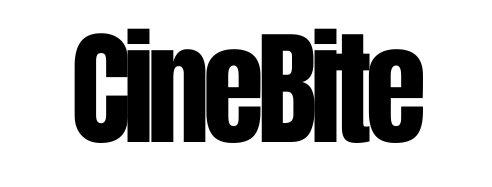
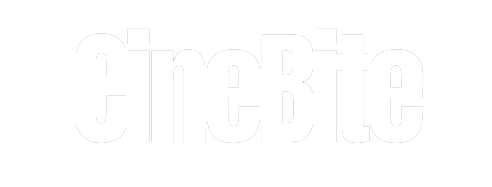
Feat: 프론트 화면 변경

diff --git a/src/components/Main/Search/SearchService.js b/src/components/Main/Search/SearchService.js
@@ -17,12 +17,14 @@ export const saveSearchList = async (userId, keyword) => {
       request
     );
     console.log("클라이언트 검색 기록 저장 성공:", response);
+    return response.data; // 확인: 서버가 올바른 데이터를 반환하는지 확인하세요.
   } catch (error) {
     console.error("클라이언트 검색 기록 저장 실패:", error);
+    return null; // 명확한 값을 반환하여 함수가 실패했음을 나타냅니다.
   }
 };
 
-//검색어 삭제
+// 검색어 삭제
 export const deleteSearchList = async (userId, searchListNo) => {
   try {
     const response = await axios.delete(
@@ -34,20 +36,20 @@ export const deleteSearchList = async (userId, searchListNo) => {
   }
 };
 
-//검색어 전체삭제
+// 검색어 전체 삭제
 export const deleteAll = async (userId) => {
   userId = userId || "guest";
   try {
     const response = await axios.delete(
       `${API_URL}/api/search/delete/${userId}`
     );
-    console.log("클라이언트 검색어 전체삭제 성공:", response.data);
+    console.log("클라이언트 검색어 전체 삭제 성공:", response.data);
   } catch (error) {
-    console.log("클라이언트 검색어 전체삭제 실패:", error);
+    console.log("클라이언트 검색어 전체 삭제 실패:", error);
   }
 };
 
-// 영화 데이터 가져오기
+// 영화 데이터 조회
 export const getSearchData = async (keyword) => {
   try {
     console.log("키워드:", keyword);
@@ -61,35 +63,59 @@ export const getSearchData = async (keyword) => {
 };
 
 // 최근 검색어 목록 가져오기
-export const fetchSearchList = async (userId, setSearchKeyword) => {
-  const response = await axios.get(`${API_URL}/api/search/user/${userId}`);
-
-  if (response && response.data && Array.isArray(response.data)) {
-    const searchData = response.data;
-    //검색어 목록 - 날짜별 내림차순
-    searchData.sort(
-      (a, b) => new Date(b.searchListTime) - new Date(a.searchListTime)
-    );
-    setSearchKeyword(searchData); // 검색어 업데이트
-    return searchData;
-  } else {
-    setSearchKeyword([]); // 값 비우기
+export const fetchSearchList = async (userId) => {
+  try {
+    const response = await axios.get(`${API_URL}/api/search/user/${userId}`);
+    console.log("fetchSearchList response:", response.data);
+    if (response && response.data && Array.isArray(response.data)) {
+      const searchData = response.data;
+      // 검색어 목록 - 날짜별 내림차순
+      searchData.sort(
+        (a, b) => new Date(b.searchListTime) - new Date(a.searchListTime)
+      );
+      return searchData;
+    } else {
+      return [];
+    }
+  } catch (error) {
+    console.error("최근 검색어 목록 가져오기 실패:", error);
     return [];
   }
 };
 
-//연관검색어 저장
-// export const saveRelatedData = async (primaryKeyword, secondaryKeyword) => {
+// 연관 검색어 저장
+export const saveRelatedData = async (
+  previousSearchListNo,
+  userId,
+  keyword
+) => {
+  try {
+    const response = await axios.post(`${API_URL}/related/save`, {
+      searchListNo: previousSearchListNo,
+      userId: userId,
+      keywords: [keyword],
+    });
+    console.log("요청한 연관 검색어 저장 데이터:", {
+      searchListNo: previousSearchListNo,
+      userId: userId,
+      keywords: [keyword],
+    });
+    console.log("클라이언트 연관 검색어 저장 성공:", response);
+    return response.data;
+  } catch (error) {
+    console.error("클라이언트 연관 검색어 저장 실패:", error);
+    throw error;
+  }
+};
+
+// 연관 검색어 조회
+// export const findRelatedByKeyword = async (keyword) => {
 //   try {
-//     console.log("primaryKeyword:", primaryKeyword);
-//     console.log("secondaryKeyword :", secondaryKeyword);
-//     const response = await axios.post(`${API_URL}/related/search/save`, {
-//       keywords: [primaryKeyword, secondaryKeyword],
-//     });
-//     console.log("클라이언트 연관 검색어 저장 성공:", response);
-//     return response.data; // Optionally, return response data if needed
+//     const response = await axios.get(`${API_URL}/related/find/${keyword}`);
+//     console.log("키워드로 연관 검색어 조회 성공:", response.data);
+//     return response.data;
 //   } catch (error) {
-//     console.error("클라이언트 연관 검색어 저장 실패:", error);
-//     throw error; // Re-throw the error to handle it elsewhere if needed
+//     console.error("키워드로 연관 검색어 조회 오류:", error.message);
+//     return [];
 //   }
 // };

diff --git a/src/components/Main/Search/Search.js b/src/components/Main/Search/Search.js
@@ -1,8 +1,14 @@
+// Search.js
+
 import React, { useEffect, useState } from "react";
 import axios from "axios";
 import SearchMovie from "./SearchMenu/SearchMovie";
 import SearchList from "./SearchList";
-import { fetchSearchList, saveSearchList } from "./SearchService";
+import {
+  saveRelatedData,
+  fetchSearchList,
+  saveSearchList,
+} from "./SearchService";
 import "../../../styles/Main/Search/Search.css";
 import SearchTotal from "./SearchMenu/SearchTotal";
 
@@ -11,23 +17,27 @@ const Search = () => {
   const [movieData, setMovieData] = useState([]); // 영화 데이터
   const [searchMessage, setSearchMessage] = useState(""); // 검색 메시지
   const [searchKeyword, setSearchKeyword] = useState([]); // 키워드 목록
-  const userId = "guest";
+  const [userId] = useState("guest"); // 사용자 ID
 
   useEffect(() => {
     fetchData();
-  }, []);
+  }, [userId]);
 
-  // 최근 검색어 목록 가져오기
   const fetchData = async () => {
     if (userId) {
-      await fetchSearchList(userId, setSearchKeyword);
+      const searchDataList = await fetchSearchList(userId);
+      console.log("fetchData: searchDataList", searchDataList);
+      if (searchDataList.length > 0) {
+        setSearchKeyword(searchDataList); // 검색어 업데이트
+      } else {
+        console.log("fetchData: No search data found");
+      }
       console.log("최근검색어 가져오기 성공!");
     } else {
-      console.error("최근 검색어를 가져오는데 실패했습니다.");
+      console.error("fetchData: 최근 검색어를 가져오는데 실패했습니다.");
     }
   };
 
-  // DB에서 데이터 가져오기
   const getSearchData = async (keyword) => {
     console.log("키워드:", keyword);
     const url = `${process.env.REACT_APP_API_URL}/movie/search/${keyword}`;
@@ -42,8 +52,8 @@ const Search = () => {
     }
   };
 
-  // 검색 실행
   const search = async (keyword) => {
+    console.log("search: 검색 시작: ", keyword);
     const searchData = await getSearchData(keyword);
     if (searchData.length > 0) {
       setMovieData(searchData);
@@ -52,17 +62,43 @@ const Search = () => {
       setMovieData([]);
       setSearchMessage("검색한 결과를 찾을 수 없습니다.");
     }
-    await saveSearchList(userId, [keyword]);
-    fetchData();
+    // 최근 검색어 목록 업데이트
+    const newSearchList = await saveSearchList(userId, [keyword]);
+    console.log("newSearchList: ", newSearchList);
+
+    // 이미 최근 검색어 목록에 있는 경우 맨 앞으로 이동시키기
+    const existingKeyword = searchKeyword.find(
+      (searchList) => searchList.searchKeyword === keyword
+    );
+    if (existingKeyword) {
+      //검색어 제거
+      const updatedSearchKeyword = searchKeyword.filter(
+        (searchList) => searchList.searchKeyword !== keyword
+      );
+      //맨 앞 추가
+      updatedSearchKeyword.unshift(existingKeyword);
+      setSearchKeyword(updatedSearchKeyword);
+    } else {
+      await fetchData(); // 검색어 목록 다시 불러오기
+    }
+
+    if (searchKeyword.length > 0 && searchKeyword[0].searchListNo) {
+      const previousSearchListNo = searchKeyword[0].searchListNo;
+      console.log("searchKeyword[0]: ", searchKeyword[0]);
+      console.log("previousSearchListNo: ", previousSearchListNo);
+
+      await saveRelatedData(previousSearchListNo, userId, keyword);
+    } else {
+      console.log("첫 번째 검색이므로 연관 검색어 저장 스킵");
+    }
+    console.log("연관keyword: ", keyword);
   };
 
-  // 검색어 입력 시 처리 함수
   const changeInput = (e) => {
     const { value } = e.target;
     setKeyword(value);
   };
 
-  // 검색 폼 제출
   const handleSubmit = async (e) => {
     e.preventDefault();
     await search(keyword);
@@ -82,18 +118,15 @@ const Search = () => {
         <button type="submit">검색</button>
       </form>
 
-      {/* 최근 검색어 목록 */}
       <SearchList
         searchKeyword={searchKeyword}
         setSearchKeyword={setSearchKeyword}
       />
-
-      {/* 검색 결과 메시지 */}
       {searchMessage && <p>{searchMessage}</p>}
 
+      {/* <RelatedList keyword={keyword} /> */}
       <SearchTotal />
 
-      {/* 영화 목록 */}
       {movieData.length > 0 && <SearchMovie movieData={movieData} />}
     </div>
   );

diff --git a/src/components/Header/Nav.js b/src/components/Header/Nav.js
@@ -1,10 +1,10 @@
-import React from 'react';
-import '../../styles/Header/Nav.css';
-import { FaSearch } from 'react-icons/fa';
-import { IoChatbubbleEllipses } from 'react-icons/io5';
-import { AiFillLike } from 'react-icons/ai';
-import { FaUser } from 'react-icons/fa';
-import logo from '../../assets/images/cineBite.png';
+import React from "react";
+import "../../styles/Header/Nav.css";
+import { FaSearch } from "react-icons/fa";
+import { IoChatbubbleEllipses } from "react-icons/io5";
+import { AiFillLike } from "react-icons/ai";
+import { FaUser } from "react-icons/fa";
+import logo from "../../assets/images/cineBite.png";
 
 function Nav() {
   return (
@@ -17,22 +17,22 @@ function Nav() {
       <div className="nav_menu">
         <ul>
           <a href="/search">
-            <FaSearch size="25" color="black" />
+            <FaSearch size="25" color="white" />
           </a>
         </ul>
         <ul>
           <a href="/recommend">
-            <AiFillLike size="25" color="black" />
+            <AiFillLike size="25" color="white" />
           </a>
         </ul>
         <ul>
           <a href="/community">
-            <IoChatbubbleEllipses size="25" color="black" />
+            <IoChatbubbleEllipses size="25" color="white" />
           </a>
         </ul>
         <ul>
           <a href="/myPage">
-            <FaUser size="25" color="black" />
+            <FaUser size="25" color="white" />
           </a>
         </ul>
       </div>

diff --git a/src/components/Main/Search/RelatedList.js b/src/components/Main/Search/RelatedList.js
@@ -1,0 +1,41 @@
+import React, { useState, useEffect } from "react";
+import { findRelatedByKeyword } from "./SearchService";
+
+const RelatedList = ({ keyword = "" }) => {
+  const [relatedEntities, setRelatedEntities] = useState([]);
+
+  useEffect(() => {
+    const fetchRelatedData = async () => {
+      try {
+        if (keyword) {
+          const response = await findRelatedByKeyword(keyword);
+          // 응답 데이터가 유효한지 확인
+          if (response && response.data) {
+            setRelatedEntities(response.data);
+          } else {
+            setRelatedEntities([]);
+          }
+        }
+      } catch (error) {
+        console.error("연관 검색어 조회 오류:", error);
+        setRelatedEntities([]);
+      }
+    };
+    fetchRelatedData();
+  }, [keyword]);
+
+  return (
+    <div className="related_list">
+      <h3>연관검색어</h3>
+      <ul className="related_list_data">
+        {relatedEntities.map((relatedEntity) => (
+          <li key={relatedEntity.searchListNo}>
+            {relatedEntity.searchRelatedWord}
+          </li>
+        ))}
+      </ul>
+    </div>
+  );
+};
+
+export default RelatedList;

diff --git a/src/styles/Main/Search/SearchTotal.css b/src/styles/Main/Search/SearchTotal.css
@@ -8,6 +8,6 @@
 }
 
 .total_item {
-  display: inline-block; /* 아이템을 가로로 배열하기 위해 인라인 블록 요소로 설정 */
+  display: inline-block;
   margin: 0 100px;
 }

diff --git a/src/styles/Main/Main.css b/src/styles/Main/Main.css
@@ -1,4 +1,8 @@
+body {
+  background-color: #15192a;
+}
+
 .main_div {
-  background-color: aliceblue;
+  color: white;
   padding: 20px;
 }

diff --git a/src/styles/Header/UserInfo.css b/src/styles/Header/UserInfo.css
@@ -3,6 +3,7 @@
   font-size: 13px;
   justify-content: right;
   margin-right: 10px;
+  color: white;
 }
 
 .nav_userInfo ul {
